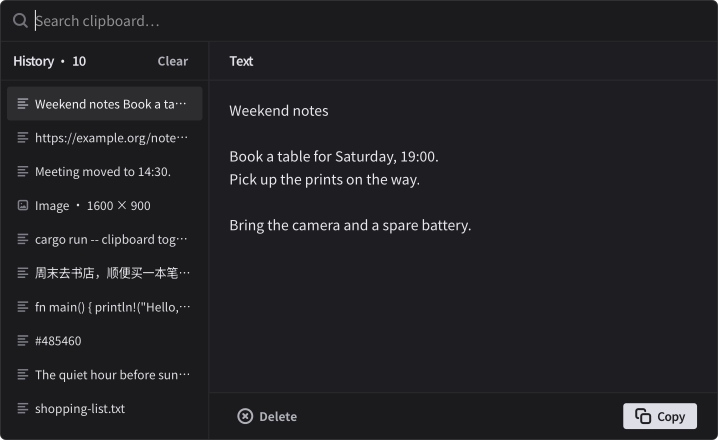
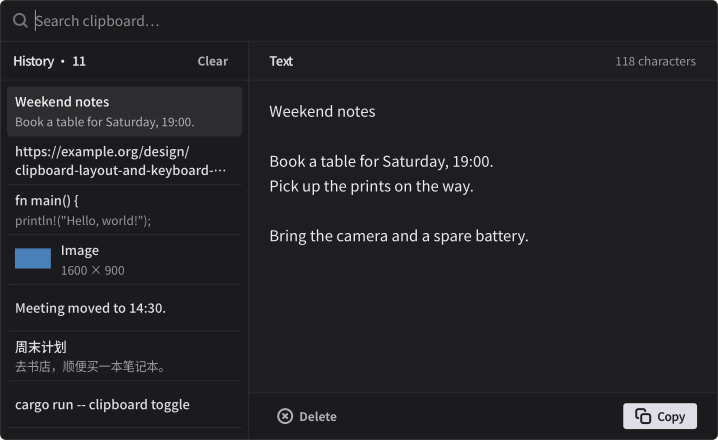
feat: improve clipboard history UI

diff --git a/resources/style.css b/resources/style.css
@@ -177,8 +177,8 @@ window.relvi-window {
 .text-preview,
 .text-preview text {
   background-color: transparent;
-  color: #e8e8ed;
-  font-size: 14px;
+  color: #ececf0;
+  font-size: 15px;
 }
 
 .error-indicator {
@@ -219,8 +219,7 @@ window.relvi-window {
   color: #d6d6dc;
 }
 
-.result-row,
-.history-item {
+.result-row {
   min-height: 32px;
   margin: 1px 0;
   padding: 0 10px;
@@ -270,16 +269,33 @@ window.relvi-window {
   background-color: #1b1b1e;
 }
 
+.history-pane .item-list > row + row {
+  border-top: 1px solid rgba(255, 255, 255, 0.08);
+}
+
 .history-item {
+  min-height: 36px;
+  margin: 1px 0;
+  padding: 4px 8px;
+}
+
+.history-title {
+  font-size: 13px;
+  font-weight: 500;
+}
+
+.history-detail {
+  color: #96969e;
   font-size: 12px;
 }
 
-.history-item image {
-  color: #7e7e88;
+.item-list > row:selected .history-detail {
+  color: #b0b0b8;
 }
 
-.item-list > row:selected .history-item image {
-  color: #a0a0aa;
+.history-thumbnail {
+  min-width: 36px;
+  min-height: 36px;
 }
 
 .preview-pane {

diff --git a/src/ui/pages/clipboard/list/row.rs b/src/ui/pages/clipboard/list/row.rs
@@ -1,0 +1,94 @@
+use gtk::prelude::*;
+use gtk::{Align, Box as GtkBox, Image, Label, Orientation, gdk, pango};
+
+use crate::clipboard::{Content, Entry};
+
+pub struct HistoryRow {
+    root: GtkBox,
+    title: Label,
+    detail: Label,
+    thumbnail: Image,
+}
+
+impl HistoryRow {
+    pub fn new() -> Self {
+        let title = Label::builder()
+            .xalign(0.0)
+            .wrap(true)
+            .wrap_mode(pango::WrapMode::WordChar)
+            .ellipsize(pango::EllipsizeMode::End)
+            .max_width_chars(1)
+            .hexpand(true)
+            .css_classes(["history-title"])
+            .build();
+        let detail = Label::builder()
+            .xalign(0.0)
+            .single_line_mode(true)
+            .ellipsize(pango::EllipsizeMode::End)
+            .max_width_chars(1)
+            .css_classes(["history-detail"])
+            .build();
+
+        let text = GtkBox::new(Orientation::Vertical, 2);
+        text.set_valign(Align::Center);
+        text.append(&title);
+        text.append(&detail);
+
+        let thumbnail = Image::builder()
+            .pixel_size(36)
+            .valign(Align::Center)
+            .css_classes(["history-thumbnail"])
+            .build();
+
+        let root = GtkBox::new(Orientation::Horizontal, 10);
+        root.add_css_class("history-item");
+        root.append(&thumbnail);
+        root.append(&text);
+
+        Self {
+            root,
+            title,
+            detail,
+            thumbnail,
+        }
+    }
+
+    pub const fn widget(&self) -> &GtkBox {
+        &self.root
+    }
+
+    pub fn show(&self, entry: Option<&Entry>) {
+        let Some(entry) = entry else {
+            self.thumbnail.clear();
+
+            return;
+        };
+
+        match &entry.content {
+            Content::Text(_) => {
+                let mut lines = entry
+                    .preview
+                    .lines()
+                    .map(str::trim)
+                    .filter(|line| !line.is_empty());
+                self.title.set_text(lines.next().unwrap());
+
+                let detail = lines.next();
+                self.title.set_lines(if detail.is_some() { 1 } else { 2 });
+                self.detail.set_text(detail.unwrap_or_default());
+                self.detail.set_visible(detail.is_some());
+                self.thumbnail.set_paintable(gdk::Paintable::NONE);
+                self.thumbnail.set_visible(false);
+            }
+            Content::Image(image) => {
+                self.title.set_text("Image");
+                self.title.set_lines(1);
+                self.detail
+                    .set_text(&format!("{} × {}", image.width, image.height));
+                self.detail.set_visible(true);
+                self.thumbnail.set_paintable(Some(&image.texture));
+                self.thumbnail.set_visible(true);
+            }
+        }
+    }
+}

diff --git a/src/ui/pages/clipboard/preview.rs b/src/ui/pages/clipboard/preview.rs
@@ -7,7 +7,7 @@ use crate::ui::components::{ImagePreview, TextPreview, toolbar};
 pub struct Preview {
     root: GtkBox,
     heading: Label,
-    dimensions: Label,
+    metadata: Label,
     content: Stack,
     text: TextPreview,
     image: ImagePreview,
@@ -19,10 +19,9 @@ impl Preview {
         let heading = Label::new(Some("Preview"));
         heading.add_css_class("pane-title");
 
-        let dimensions = Label::new(None);
-        dimensions.set_visible(false);
+        let metadata = Label::new(None);
 
-        let header = toolbar(&heading, &[dimensions.upcast_ref()]);
+        let header = toolbar(&heading, &[metadata.upcast_ref()]);
         let text = TextPreview::new();
         let image = ImagePreview::new();
 
@@ -42,7 +41,7 @@ impl Preview {
         Self {
             root,
             heading,
-            dimensions,
+            metadata,
             content,
             text,
             image,
@@ -58,7 +57,8 @@ impl Preview {
         let child: &Widget = match content {
             Some(Content::Text(text)) => {
                 self.heading.set_text("Text");
-                self.dimensions.set_visible(false);
+                self.metadata
+                    .set_text(&format!("{} characters", text.chars().count()));
                 self.text.set_text(text);
                 self.image.set_paintable(gdk::Paintable::NONE);
 
@@ -66,9 +66,8 @@ impl Preview {
             }
             Some(Content::Image(image)) => {
                 self.heading.set_text("Image");
-                self.dimensions
+                self.metadata
                     .set_text(&format!("{} × {}", image.width, image.height));
-                self.dimensions.set_visible(true);
                 self.text.set_text("");
                 self.image.set_paintable(Some(&image.texture));
 
@@ -76,7 +75,7 @@ impl Preview {
             }
             None => {
                 self.heading.set_text("Preview");
-                self.dimensions.set_visible(false);
+                self.metadata.set_text("");
                 self.text.set_text("");
                 self.image.set_paintable(gdk::Paintable::NONE);
 

diff --git a/src/ui/pages/clipboard/list.rs b/src/ui/pages/clipboard/list.rs
@@ -1,12 +1,15 @@
+mod row;
+
 use std::sync::Arc;
 
 use gtk::prelude::*;
 use gtk::{
-    Align, Box as GtkBox, Image, Label, ListItem, ListView, Orientation, Overlay, PolicyType,
-    ScrolledWindow, SignalListItemFactory, SingleSelection, gio, glib,
+    Align, Label, ListItem, ListView, Overlay, PolicyType, ScrolledWindow, SignalListItemFactory,
+    SingleSelection, gio, glib,
 };
 
-use crate::clipboard::{Content, Entry};
+use self::row::HistoryRow;
+use crate::clipboard::Entry;
 use crate::ui::components::ListNavigation;
 
 pub struct HistoryList {
@@ -26,33 +29,18 @@ impl HistoryList {
         let factory = SignalListItemFactory::new();
         factory.connect_setup(|_, object| {
             let item = object.downcast_ref::<ListItem>().unwrap();
-            let icon = Image::new();
-            icon.set_pixel_size(12);
-
-            let label = Label::new(None);
-            label.set_xalign(0.0);
-            label.set_single_line_mode(true);
-            label.set_ellipsize(gtk::pango::EllipsizeMode::End);
-            label.set_max_width_chars(18);
-            label.set_hexpand(true);
-
-            let row = GtkBox::new(Orientation::Horizontal, 6);
-            row.add_css_class("history-item");
-            row.append(&icon);
-            row.append(&label);
-            item.set_child(Some(&row));
+            let row = HistoryRow::new();
+            item.set_child(Some(row.widget()));
 
             item.connect_item_notify(move |item| {
                 let Some(object) = item.item() else {
+                    row.show(None);
+
                     return;
                 };
                 let object = object.downcast::<glib::BoxedAnyObject>().unwrap();
                 let entry = object.borrow::<Arc<Entry>>();
-                label.set_text(entry.preview.trim_end());
-                icon.set_icon_name(Some(match entry.content {
-                    Content::Text(_) => "format-justify-left-symbolic",
-                    Content::Image(_) => "image-x-generic-symbolic",
-                }));
+                row.show(Some(&entry));
             });
         });
 

diff --git a/src/clipboard.rs b/src/clipboard.rs
@@ -32,11 +32,7 @@ impl Entry {
             return Err("invalid clipboard text".into());
         }
 
-        let preview = text
-            .split_whitespace()
-            .flat_map(|word| word.chars().chain(std::iter::once(' ')))
-            .take(160)
-            .collect::<String>();
+        let preview = text.trim().chars().take(160).collect();
         let searchable = text.to_lowercase();
         let id = glib::compute_checksum_for_data(glib::ChecksumType::Sha256, text.as_bytes())
             .unwrap()

diff --git a/src/ui/pages/clipboard.rs b/src/ui/pages/clipboard.rs
@@ -51,7 +51,7 @@ impl ClipboardPage {
 
         let history_pane = GtkBox::new(Orientation::Vertical, 0);
         history_pane.add_css_class("history-pane");
-        history_pane.set_width_request(208);
+        history_pane.set_width_request(248);
         history_pane.set_hexpand(false);
         history_pane.append(&history_toolbar);
         history_pane.append(list.widget());
